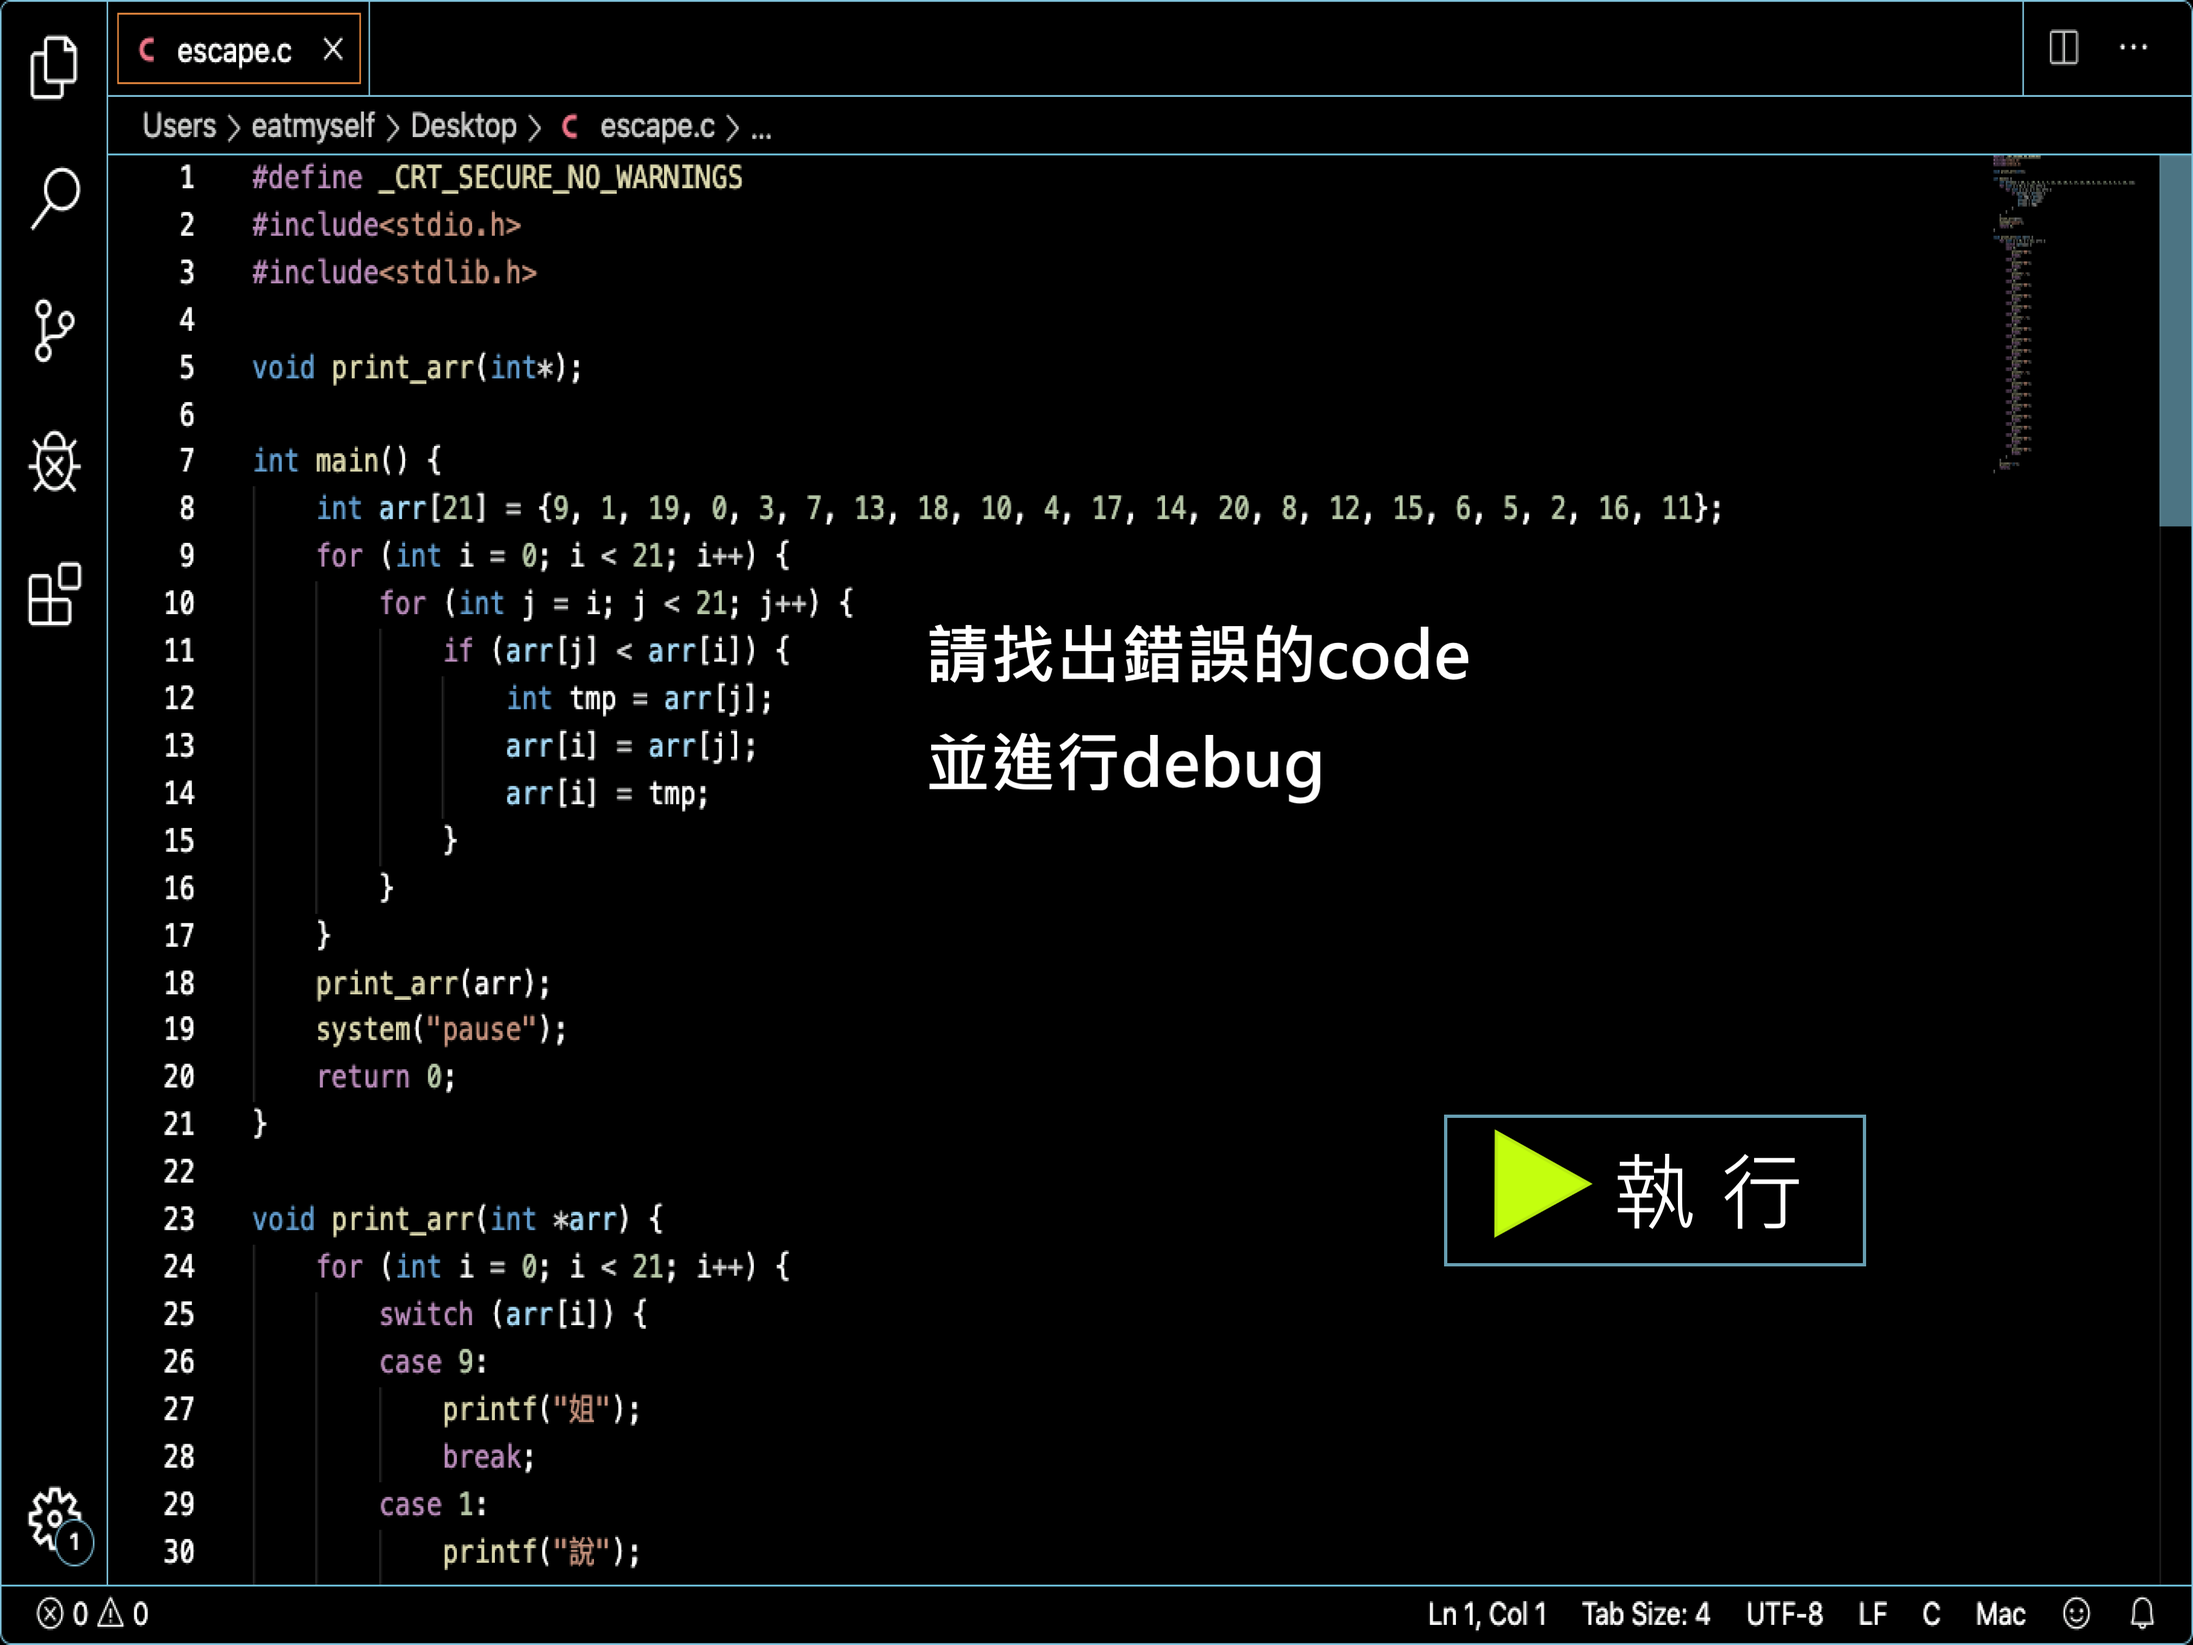
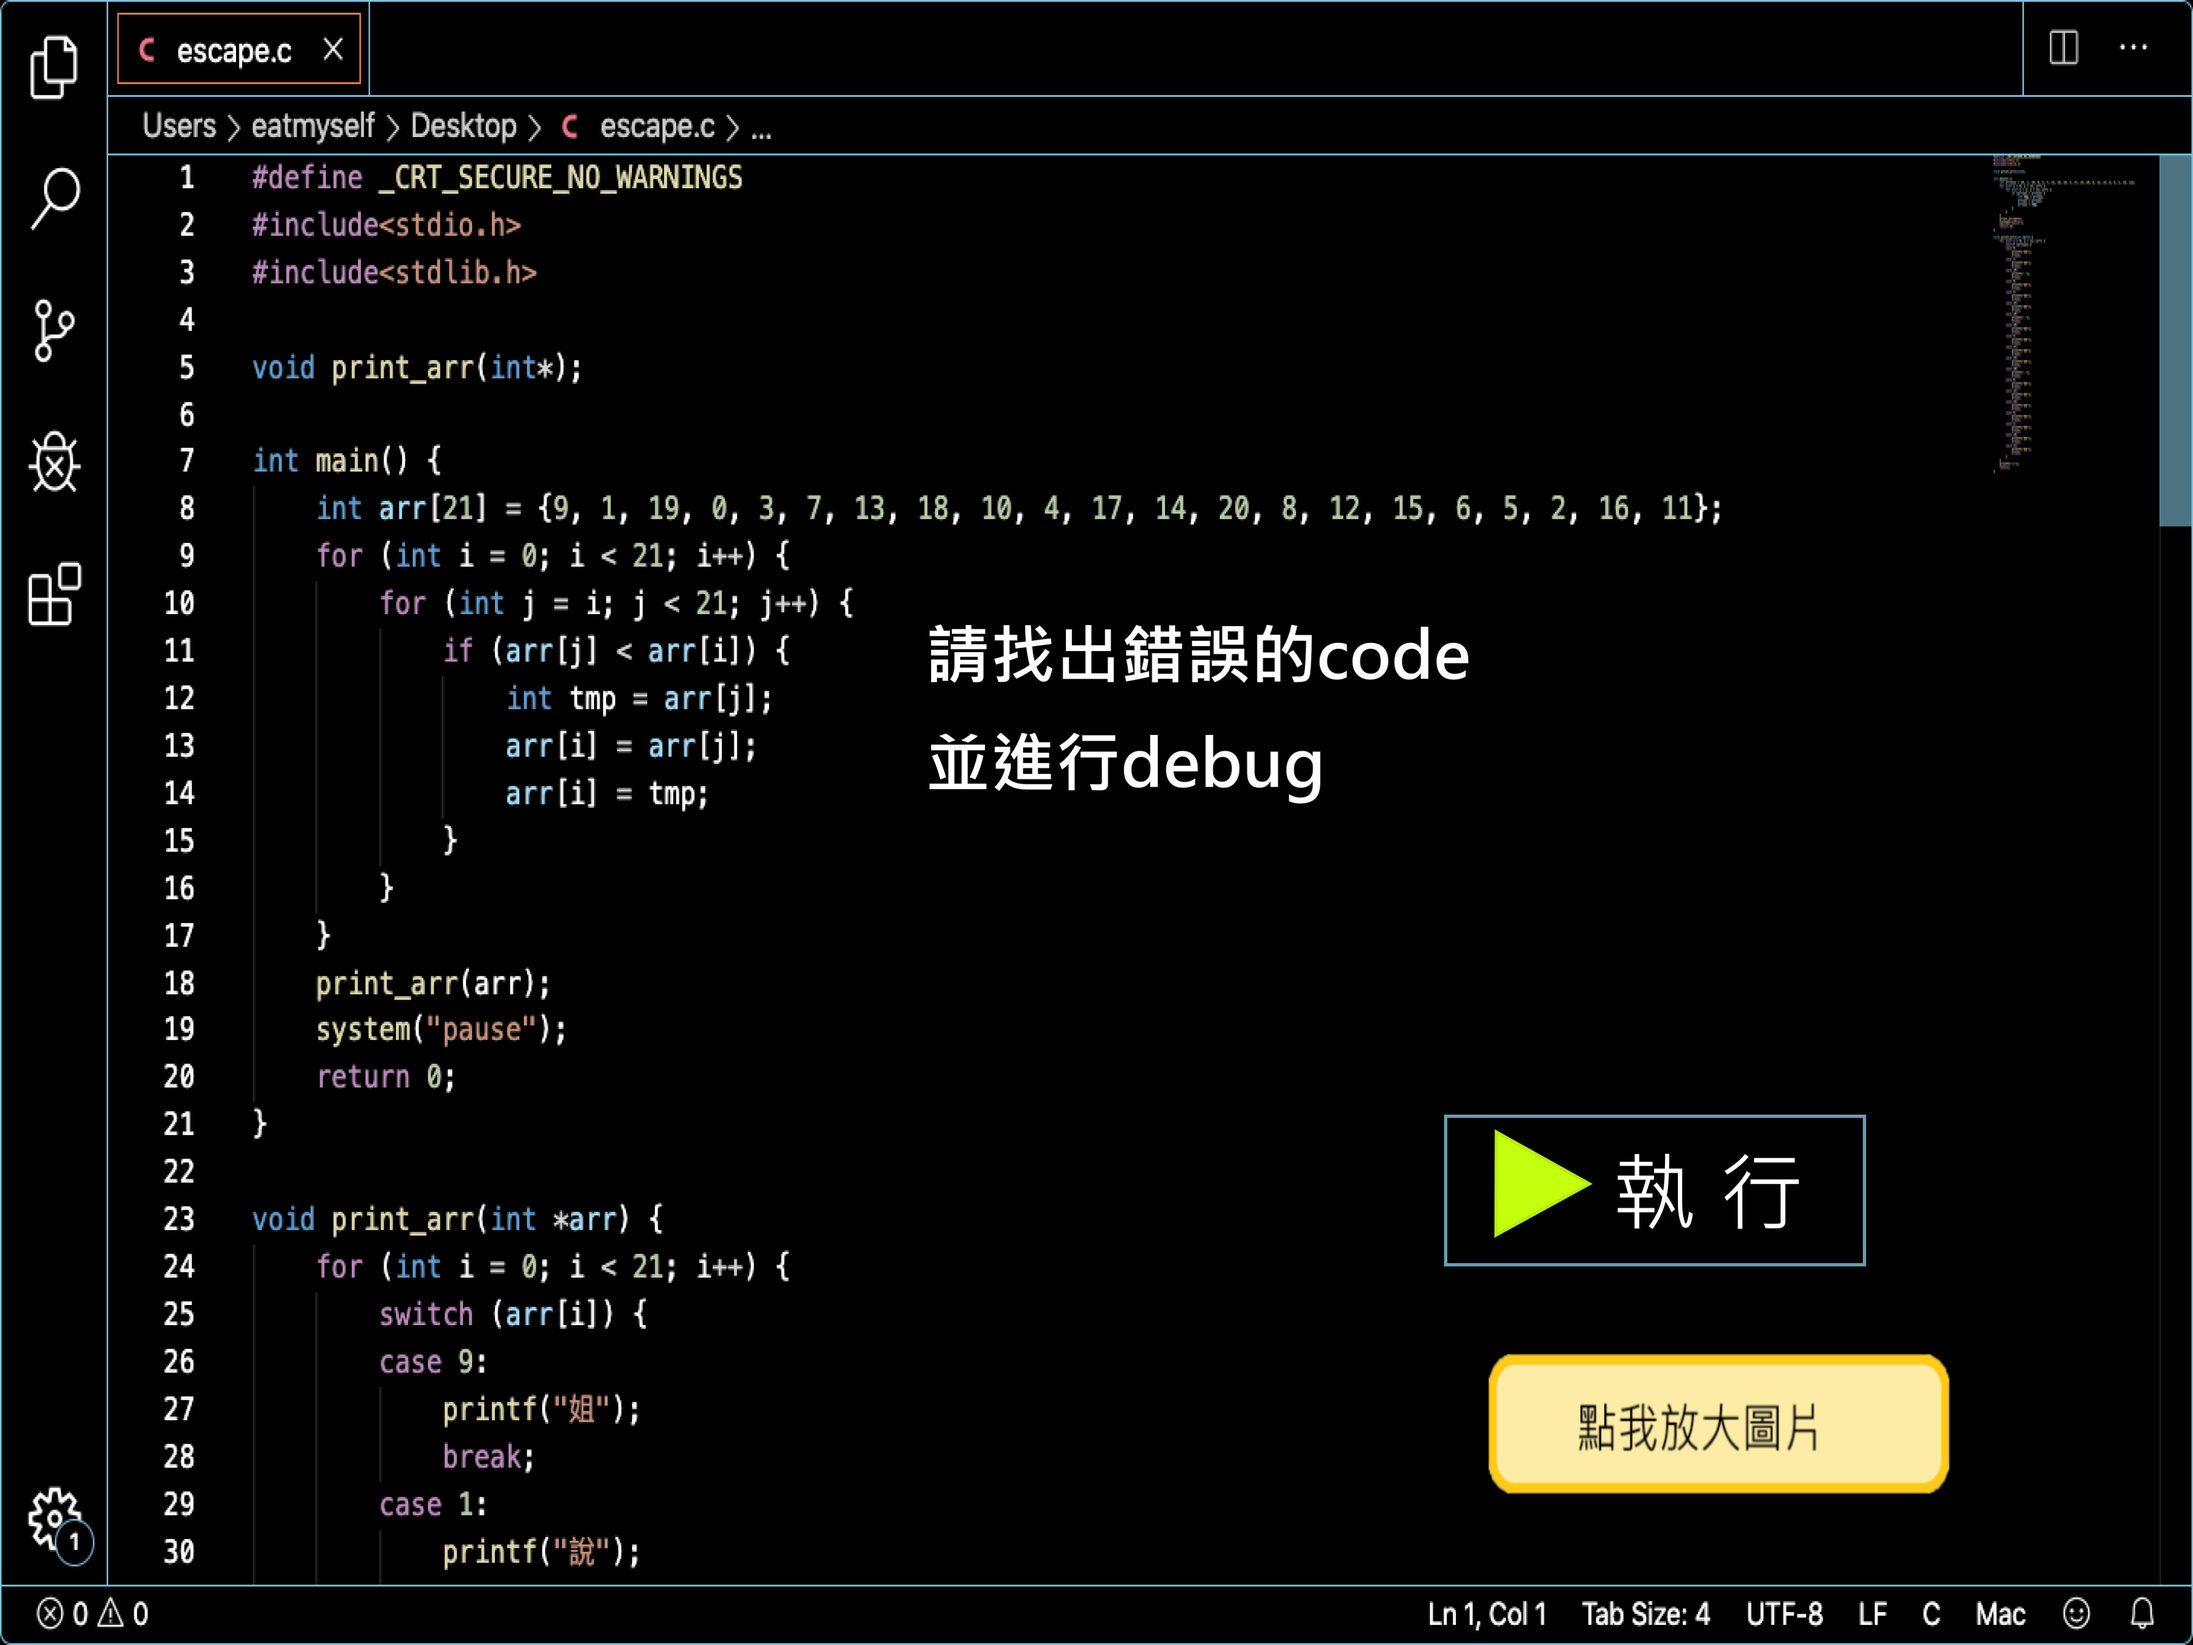
可放大圖片

Changed region(s): [[0.6562, 0.8082, 0.9062, 0.9325]]

diff --git a/first.js b/first.js
@@ -7,12 +7,14 @@ var inmachine = 0;
 function clickpic(e) {
     var x = e.offsetX;
     var y = e.offsetY;
+    console.log("clickpic");
     if ((e.target.getAttribute("id") == "firstfloor")) {
         if ((x > 450 && x < 615) && (y > 225 && y < 415) && check()) {
             inmachine = 1;
             if (hint == 0) {
                 e.target.setAttribute("id", "coin");
                 e.target.setAttribute("class", "coin");
+
             }
             else {
                 e.target.setAttribute("id", "coin_1");
@@ -69,8 +71,8 @@ function clickpic(e) {
         window.location.href = 'second.html';
     }
     else if ((hint_times >= 1) || (enter == 1)) {
-        console.log("hint_times is "+hint_times+" while enter is "+enter);
         if ((e.target.getAttribute("id") == "coin") || (e.target.getAttribute("id") == "coin_1")) {
+            console.log("75");
             if (correct == 1) {
                 document.getElementById("onmachine").innerHTML = "";
                 if (hint == 0) {
@@ -90,6 +92,18 @@ function clickpic(e) {
             document.getElementById("onmachine").innerHTML = "";
         }
     }
+    else if(e.target.getAttribute("id")=="coin"){
+        console.log("x is "+x+" while y is "+y);          
+        if ((x > 590 && x < 790) && (y > 540 && y < 590)) {
+            window.open("./first/coin_machine_nobutton.jpg","放大圖片");
+        }
+    }
+    else if(e.target.getAttribute("id")=="coin_1"){
+        console.log("x is "+x+" while y is "+y);          
+        if ((x > 590 && x < 790) && (y > 540 && y < 590)) {
+            window.open("./first/coin_machine_hint2_nobutton.jpg","放大圖片");
+        }
+    }
     else
     {   if (e.target.getAttribute("id") == "list"){
             tobackpack("./backpack/list.jpg");
@@ -106,16 +120,14 @@ function clickpic(e) {
 }
 
 function check() {
+    console.log("check");
     var tools = 0;
     for (var i = 0; i < localStorage.length; i++) {
-        console.log("i is " + i + " " + localStorage.key(i));
         if (localStorage.key(i) === "./backpack/paper.jpg") {
             tools++;
-            console.log("tools++ paper");
         }
         else if (localStorage.key(i) === "./backpack/list.jpg") {
             tools++;
-            console.log("tools++ list");
         }
     }
     if (tools < 2) {
@@ -126,9 +138,9 @@ function check() {
 }
 
 function set_button(e) {
+    console.log("set_button");
     var inner = "";
     var tmp;
-    console.log("83");
     if (hint == 0) {
         tmp = document.getElementById("coin");
     }
@@ -139,7 +151,6 @@ function set_button(e) {
     inner += "<input id = 'hint' type = 'button' value = '我需要提示' class = 'button_hint'>";
     inner += "<input id = 'ans_b' type = 'button' value = '確認輸入' class = 'button_text'>";
     inner += "<input id = 'ans' type = 'text' placeholder = '限輸入英文' class = 'text_answer'>";
-    console.log(tmp);
     tmp.innerHTML = inner;
     if (hint == 0) {
         document.getElementById("where").addEventListener("click", place_hint, false);
@@ -149,7 +160,7 @@ function set_button(e) {
 }
 
 function place_hint(e) {
-    console.log("90");
+    console.log("place_hint");
     hint++;
     var tmp = document.getElementById("coin");
     tmp.setAttribute("class", "coin_1");
@@ -157,15 +168,8 @@ function place_hint(e) {
 }
 
 function hints() {
-    //var tmp;
-    //if(hint==0){
-    // tmp = document.getElementById("coin");
-    //}
-    //else{
-    //tmp = document.getElementById("coin_1");
-    //}
+    console.log("hints");
     tmp = document.getElementById("onmachine");
-    //console.log("in hints");
     hint_times++;
     var inner = "<div class = 'hint_list'>";
     if (hint_times >= 1) {
@@ -187,11 +191,13 @@ function hints() {
 }
 
 function giveup() {
+    console.log("give_up");
     var inner = "<div class = 'hint_list_1'><br>iMac</div>";
     document.getElementById("onmachine").innerHTML = inner;
 }
 
 function check_ans() {
+    console.log("check_ans");
     enter = 1;
     var result = document.getElementById("ans").value;
     console.log("result is " + result);

diff --git a/mac.js b/mac.js
@@ -28,20 +28,26 @@ function clickpic(e) {
                 $("#topdiv").text("debug囉~");
         }
     }
-    else if(e.target.getAttribute("id") == "code_f"){     
-        if ((x > 525 && x < 685) && (y > 400 && y < 685)) {
+    else if(e.target.getAttribute("id") == "code_f"){   
+        if ((x > 525 && x < 685) && (y > 400 && y < 470)) {
             e.target.setAttribute("id", "result_f");
             e.target.setAttribute("class", "result_f");
+        }
+        else if ((x > 540 && x < 710) && (y > 480 && y < 540)) {
+            window.open("./second/mac/code_f_nobutton.png","放大圖片");
         }
         else if ((x >= 65 && x <= 275) && (y >= 265 && y <= 280))  {
             set_text(e);
         }
     }
     else if(e.target.getAttribute("id") == "code_t"){     
-        if ((x > 525 && x < 685) && (y > 400 && y < 685)) {
-            e.target.setAttribute("id", "result_t");
-            e.target.setAttribute("class", "result_t");
+        if ((x > 525 && x < 685) && (y > 400 && y < 470)) {
+            //e.target.setAttribute("id", "result_t");
+            //e.target.setAttribute("class", "result_t");
             $("#topdiv").text("再點擊即可回到二樓大廳");
+        }
+        else if ((x > 530 && x < 700) && (y > 480 && y < 530)) {
+            window.open("./second/mac/code_t_nobutton.png","放大圖片");
         }
     }
     else if(e.target.getAttribute("id") == "result_f"){ 

diff --git a/third.js b/third.js
@@ -90,8 +90,12 @@ function clickpic(e) {
         }
     }
     else if( e.target.getAttribute("id")=="coin_machine" ){
-        e.target.setAttribute("class", "thirdfloor");
-        e.target.setAttribute("id", "thirdfloor");
+        console.log("x is "+x+" while y is "+y);          
+        if ((x > 570 && x < 760) && (y > 490 && y < 550)) {
+            window.open("./third/coin_machine_nobutton.jpg","放大圖片");
+        }
+        //e.target.setAttribute("class", "thirdfloor");
+        //e.target.setAttribute("id", "thirdfloor");
     }
 }
 function buttom() {
